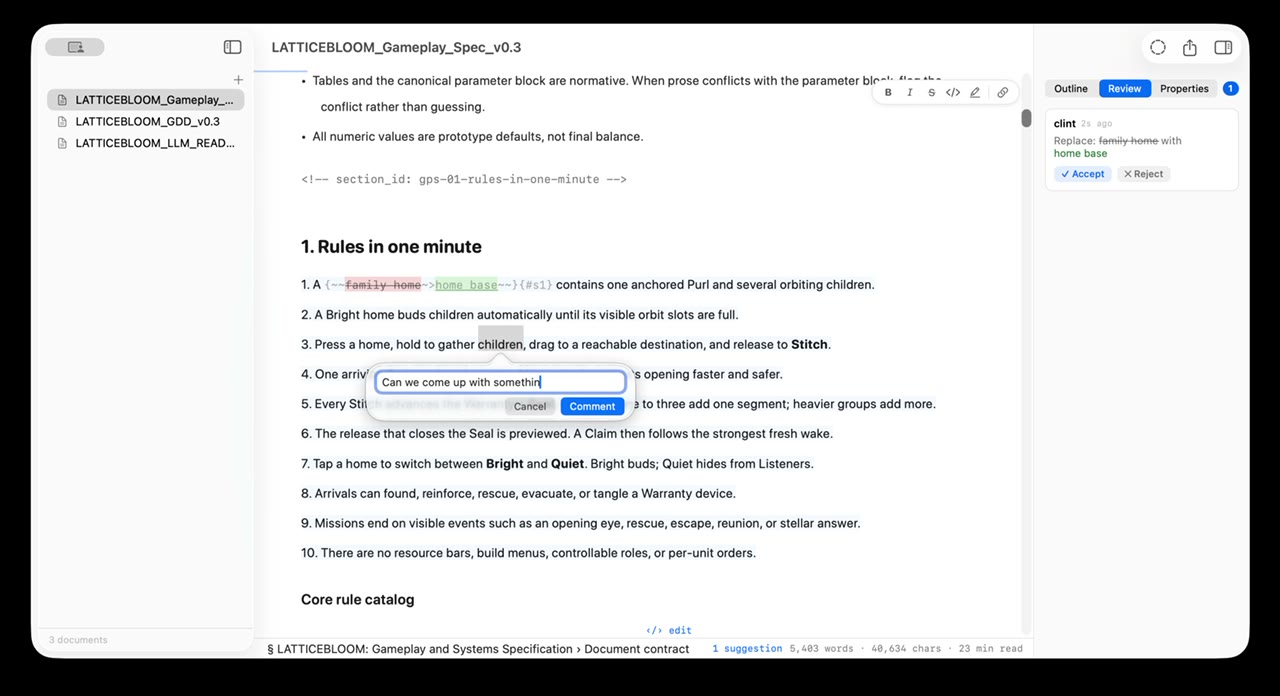
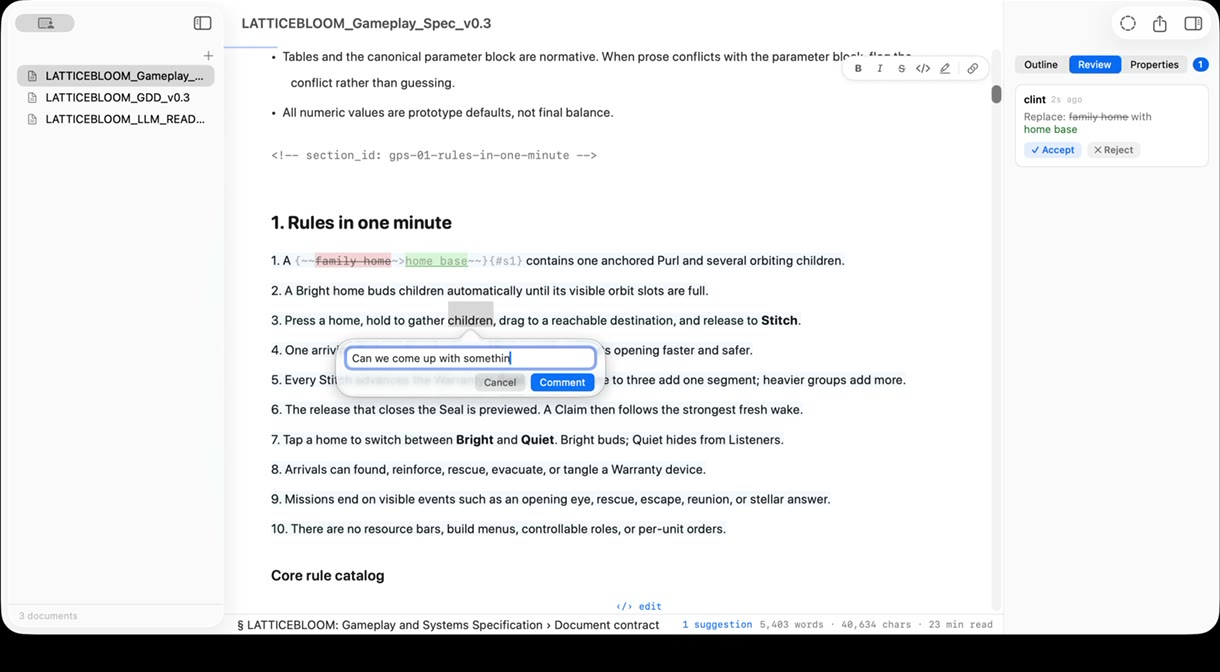
Site: fix video letterboxing + pause videos scrolled out of view
- Tall black bars on mobile were a CSS bug: the <video> width/height
  attributes (1280x696) with only width:100% meant the height attribute
  wasn't overridden, so on a narrow screen the element became portrait and
  letterboxed the 1.8:1 clip. Add height:auto so it keeps aspect at any width.
- Cropped review-loop's thin recording border (30/24px) so the app fills the
  frame edge to edge (1220x672); regenerated the poster to match.
- Added a small IntersectionObserver: a video pauses once it scrolls ~80%
  out of view (inline, no dependencies).

Changed region(s): [[0.0, 0.0, 1.0, 0.9688], [0.218, 0.3125, 0.7475, 0.8125], [0.218, 0.8438, 0.3426, 0.875]]

diff --git a/docs/index.html b/docs/index.html
@@ -98,7 +98,7 @@
 
   /* Demo video */
   .video{margin:26px auto 0;max-width:900px}
-  .video video{width:100%;display:block;border-radius:var(--radius);border:1px solid var(--line);background:#000;box-shadow:0 24px 60px -30px rgba(38,52,61,.55)}
+  .video video{width:100%;height:auto;display:block;border-radius:var(--radius);border:1px solid var(--line);background:#000;box-shadow:0 24px 60px -30px rgba(38,52,61,.55)}
   .video figcaption{font-size:13px;color:var(--muted);text-align:center;margin-top:12px}
 
   /* Engines row */
@@ -169,7 +169,7 @@
     <h2 class="ctr" style="font-size:clamp(23px,3.4vw,30px);letter-spacing:-.02em;margin:.2em 0 .4em">Suggest, comment, accept — all in the file</h2>
     <p class="sub ctr">A real review pass in Quoin: writing tracked-change suggestions and comments, then resolving them from the inspector — the marks live in the Markdown the whole time.</p>
     <figure class="video">
-      <video controls muted playsinline preload="none" poster="media/review-loop-poster.jpg" width="1280" height="696">
+      <video controls muted playsinline preload="none" poster="media/review-loop-poster.jpg" width="1220" height="672">
         <source src="media/review-loop.mp4" type="video/mp4">
         Your browser can't play embedded video — <a href="media/review-loop.mp4">download the clip</a>.
       </video>
@@ -350,5 +350,17 @@ suggestions:
     <p>Built with Swift, SwiftUI, and TextKit&nbsp;2. No JavaScript at runtime, no web view, local-only.</p>
   </div>
 </footer>
+<script>
+  // Pause any video once it scrolls mostly out of view (mobile + desktop).
+  (function () {
+    if (!('IntersectionObserver' in window)) return;
+    var io = new IntersectionObserver(function (entries) {
+      entries.forEach(function (e) {
+        if (!e.isIntersecting && !e.target.paused) e.target.pause();
+      });
+    }, { threshold: 0.2 });
+    document.querySelectorAll('video').forEach(function (v) { io.observe(v); });
+  })();
+</script>
 </body>
 </html>